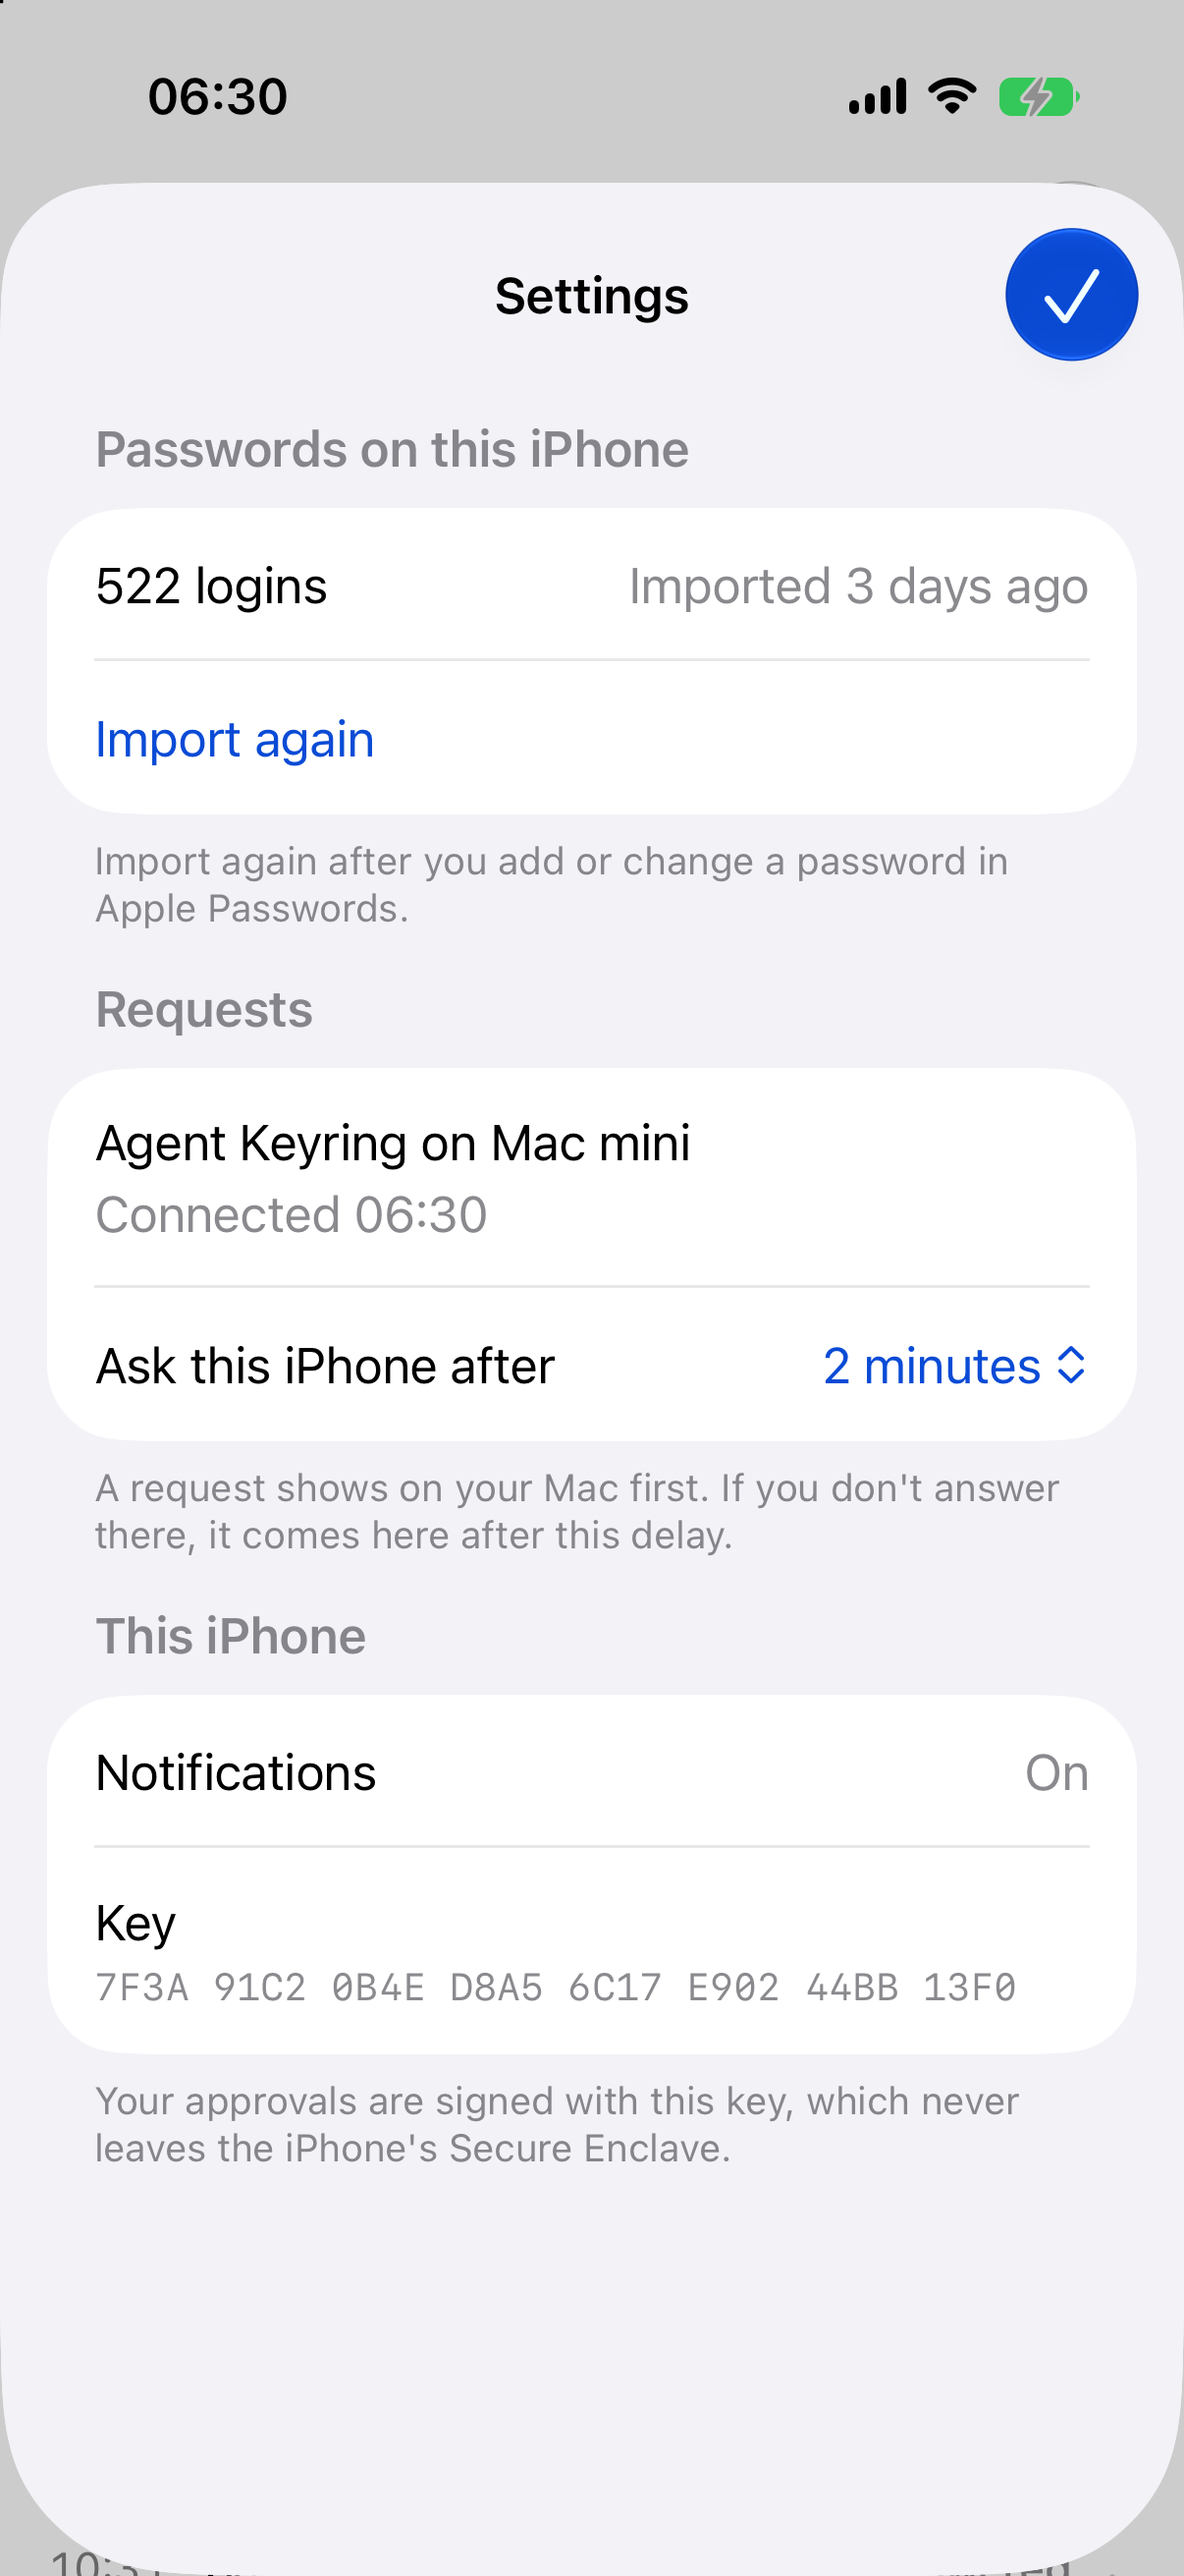
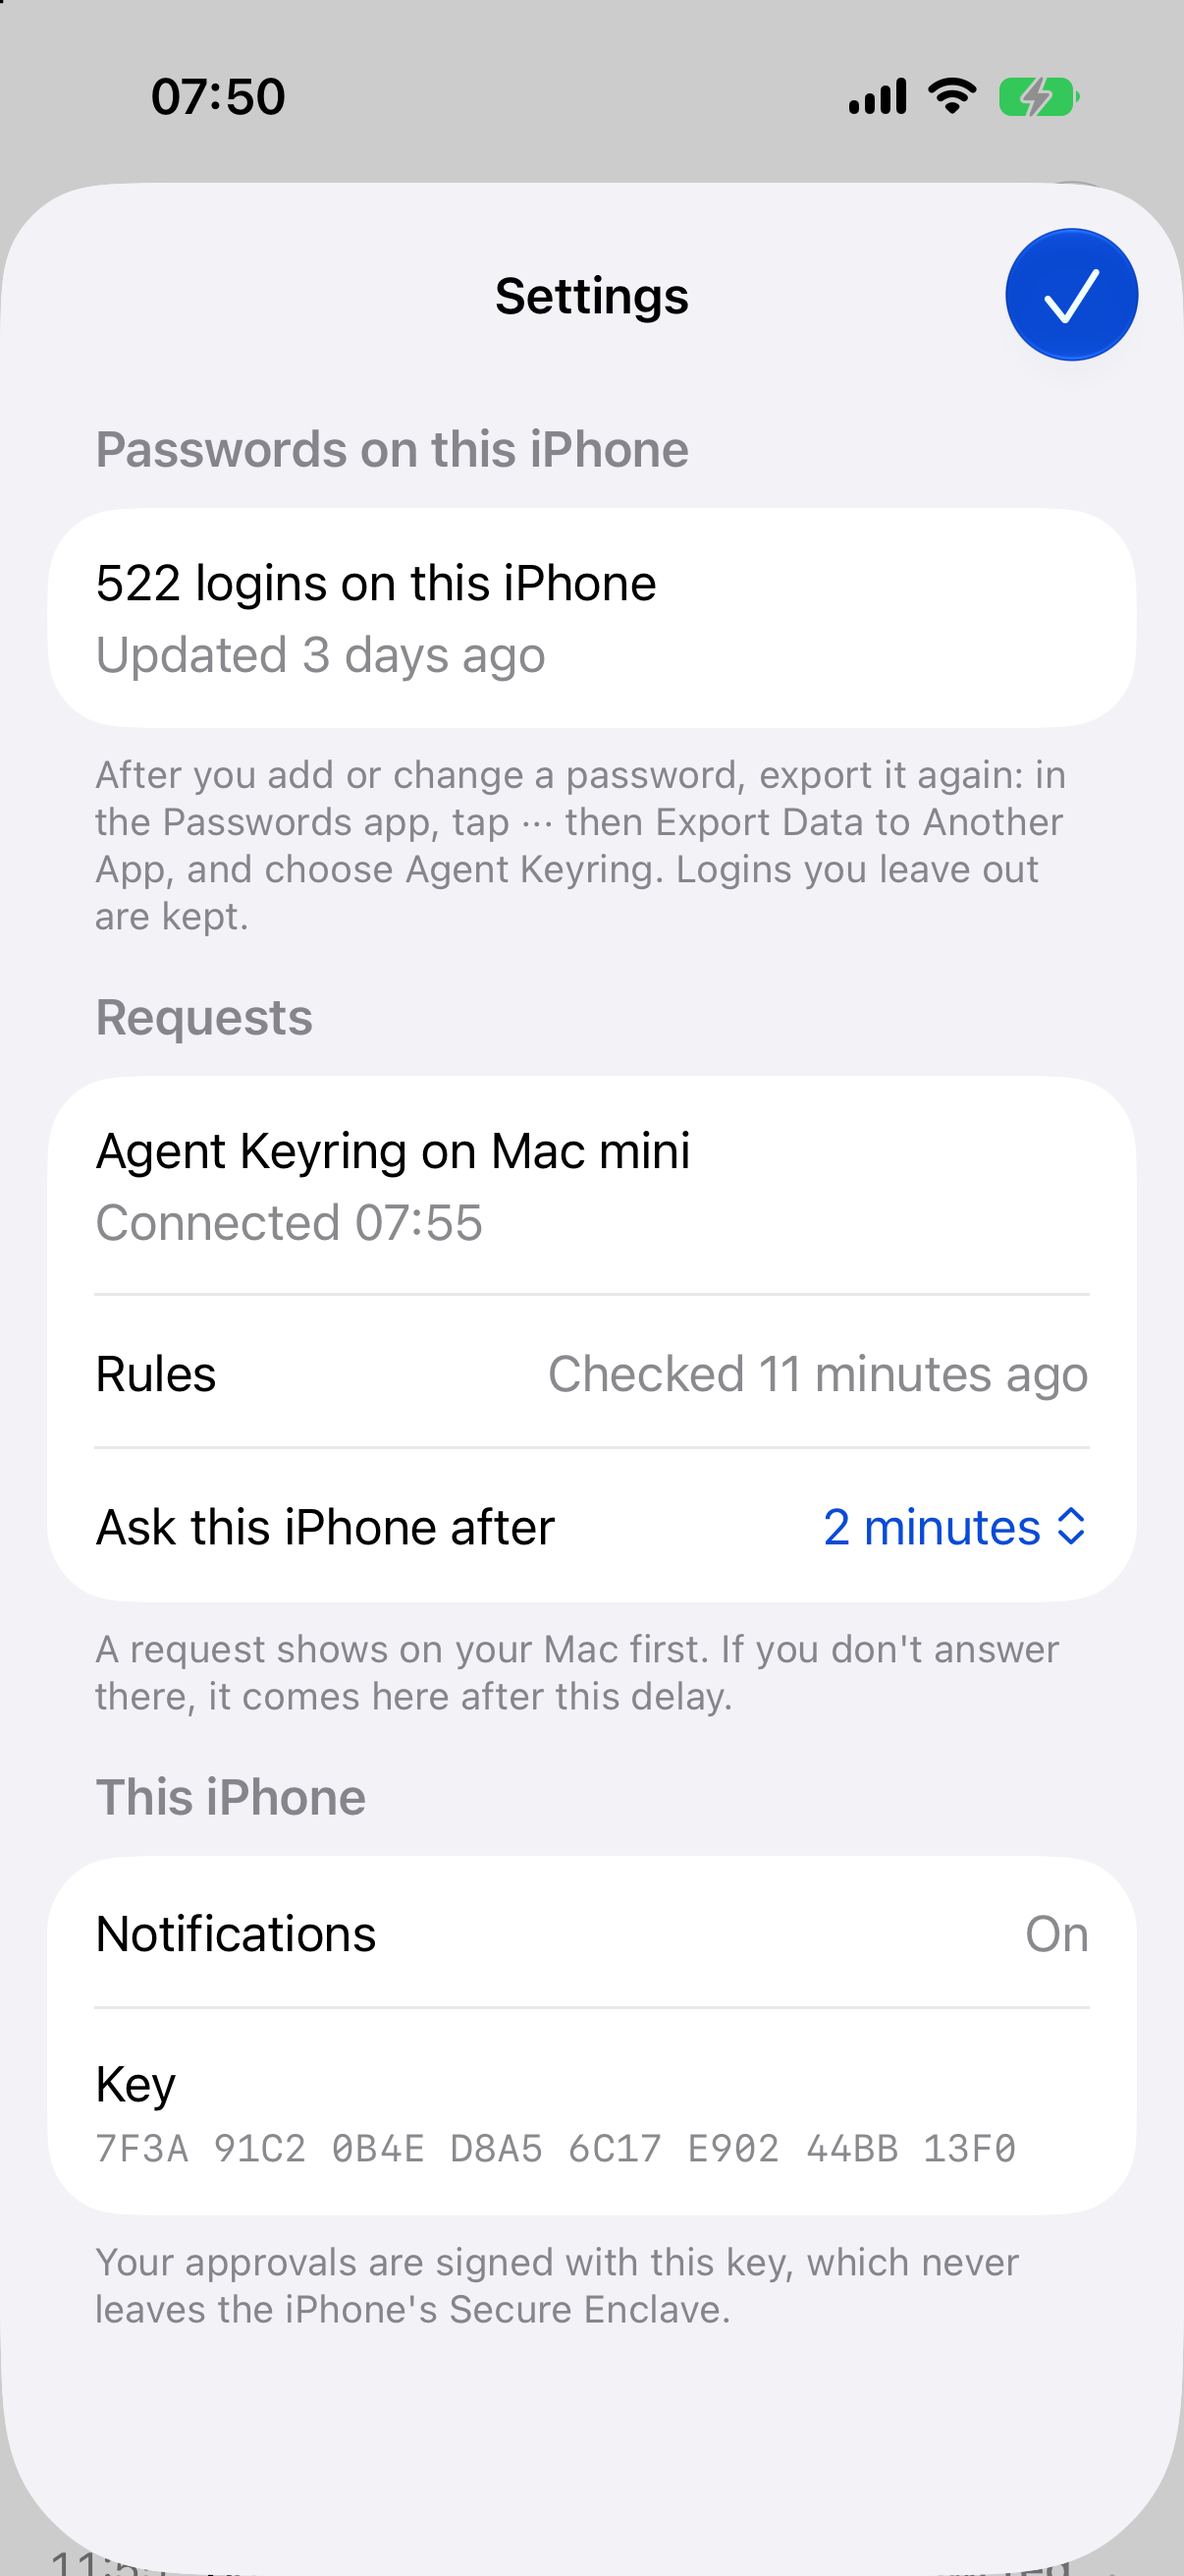
Pair the iPhone with the relay from a pairing screen
Home shows "Not paired yet, so requests can't reach this iPhone" with
Pair until the phone is paired, and Settings has "Pair with your Mac".
The pairing screen takes the relay address, then shows the code to
compare with the Mac's in the same two rows of four groups, waits while
Josh approves on the Mac with Touch ID, and finishes by itself; there is
no confirm button on the phone. "Doesn't match" cancels. Settings also
shows when the phone last verified the rules. Built on
PhoneRelayEndpoint, PhonePairingState, beginPairing and cancelPairing.

diff --git a/AgentKeyringPackage/Sources/AgentKeyringApprovalUI/Phone/PhonePairingView.swift b/AgentKeyringPackage/Sources/AgentKeyringApprovalUI/Phone/PhonePairingView.swift
@@ -1,0 +1,122 @@
+// Written by AI on 2026.10.31 by model Claude Opus 5.5.
+//
+// Pairing this iPhone with the relay (RFC 0006). Josh enters the relay's
+// address; the phone shows a code to compare with the Mac's, in the same
+// two rows of four groups; he approves on the Mac with Touch ID and the
+// phone finishes by itself. There is no confirm button here: the Mac's
+// signed approval is the confirmation, and the phone checks it.
+
+#if os(iOS)
+import SwiftUI
+
+struct PhonePairingView: View {
+    let model: PhoneKeyringModel
+    @Environment(\.dismiss) private var dismiss
+    @State private var address = ""
+    @FocusState private var addressFocused: Bool
+
+    var body: some View {
+        ScrollView {
+            VStack(alignment: .leading, spacing: 22) {
+                switch model.pairing {
+                case .notPaired:
+                    addressForm(failure: nil)
+                case let .failed(message):
+                    addressForm(failure: message)
+                case .connecting:
+                    HStack(spacing: 12) {
+                        ProgressView()
+                        Text(SetupCopy.pairingConnecting)
+                    }
+                    .font(.body)
+                    cancelButton
+                case let .comparing(fingerprint, relayAddress):
+                    comparing(fingerprint: fingerprint, relayAddress: relayAddress)
+                case .paired:
+                    HStack(alignment: .firstTextBaseline, spacing: 10) {
+                        Image(systemName: "checkmark.circle.fill")
+                            .foregroundStyle(KeyringColour.approveText)
+                        Text(SetupCopy.pairingPaired)
+                            .font(.body.weight(.semibold))
+                    }
+                    Button("Done") { dismiss() }
+                        .buttonStyle(.quiet())
+                }
+            }
+            .padding(.horizontal, KeyringMetric.margin)
+            .padding(.top, 8)
+        }
+        .navigationTitle(SetupCopy.pairTitle)
+        .navigationBarTitleDisplayMode(.inline)
+        .sensoryFeedback(.success, trigger: model.pairing == .paired)
+    }
+
+    @ViewBuilder private func addressForm(failure: String?) -> some View {
+        Text(SetupCopy.pairIntro)
+            .font(.body)
+            .foregroundStyle(.secondary)
+        if let failure {
+            Label(failure, systemImage: "exclamationmark.circle.fill")
+                .font(.subheadline)
+                .foregroundStyle(KeyringColour.denyText)
+        }
+        VStack(alignment: .leading, spacing: 6) {
+            Text(SetupCopy.relayAddress)
+                .font(.subheadline.weight(.semibold))
+                .foregroundStyle(.secondary)
+            TextField("mac-mini:17443", text: $address)
+                .textInputAutocapitalization(.never)
+                .autocorrectionDisabled()
+                .keyboardType(.URL)
+                .focused($addressFocused)
+                .font(.body.monospaced())
+                .padding(12)
+                .background(Color.primary.opacity(0.06), in: .rect(cornerRadius: 12, style: .continuous))
+                .onSubmit(pair)
+        }
+        Button(failure == nil ? SetupCopy.pairButton : SetupCopy.tryAgain, action: pair)
+            .buttonStyle(DecisionButtonStyle(colour: KeyringColour.signal))
+            .disabled(endpoint == nil)
+    }
+
+    @ViewBuilder private func comparing(fingerprint: String, relayAddress: String) -> some View {
+        Text(SetupCopy.pairingCompareHere)
+            .font(.headline)
+        FingerprintGrid(fingerprint, size: .title3)
+            .frame(maxWidth: .infinity)
+            .padding(.vertical, 8)
+        Text(SetupCopy.allGroupsMustMatch)
+            .font(.subheadline)
+            .foregroundStyle(.secondary)
+        Hairline()
+        HStack(alignment: .firstTextBaseline, spacing: 12) {
+            ProgressView()
+            Text(SetupCopy.pairingConfirmOnMac)
+                .font(.body)
+        }
+        Text("Relay: \(relayAddress)")
+            .font(.footnote.monospaced())
+            .foregroundStyle(.secondary)
+        Button(SetupCopy.doesNotMatch) { model.cancelPairing() }
+            .buttonStyle(.quiet(text: KeyringColour.denyText))
+    }
+
+    private var cancelButton: some View {
+        Button("Cancel") { model.cancelPairing() }
+            .buttonStyle(.quiet())
+    }
+
+    /// "mac-mini:17443" into host and port.
+    private var endpoint: PhoneRelayEndpoint? {
+        let parts = address.trimmingCharacters(in: .whitespaces).split(separator: ":")
+        guard parts.count == 2, !parts[0].isEmpty, let port = UInt16(parts[1]) else { return nil }
+        return PhoneRelayEndpoint(host: String(parts[0]), port: port)
+    }
+
+    private func pair() {
+        guard let endpoint else { return }
+        addressFocused = false
+        Task { await model.beginPairing(endpoint: endpoint) }
+    }
+}
+#endif

diff --git a/AgentKeyringPackage/Sources/AgentKeyringApprovalUI/Phone/PhoneHomeView.swift b/AgentKeyringPackage/Sources/AgentKeyringApprovalUI/Phone/PhoneHomeView.swift
@@ -9,15 +9,18 @@ import SwiftUI
 public struct PhoneRootView: View {
     @Bindable var model: PhoneKeyringModel
     @State private var path: [String]
+    @State private var isPairing: Bool
 
-    public init(model: PhoneKeyringModel, openRequestID: String? = nil) {
+    public init(model: PhoneKeyringModel, openRequestID: String? = nil,
+        openPairing: Bool = PhoneDesignScenario.fromLaunchArguments()?.opensPairing ?? false) {
         self.model = model
         _path = State(initialValue: openRequestID.map { [$0] } ?? [])
+        _isPairing = State(initialValue: openPairing)
     }
 
     public var body: some View {
         NavigationStack(path: $path) {
-            PhoneHomeView(model: model)
+            PhoneHomeView(model: model) { isPairing = true }
                 .navigationDestination(for: String.self) { id in
                     if let request = model.request(id: id) {
                         PhoneRequestDetailView(model: model, request: request)
@@ -32,6 +35,17 @@ public struct PhoneRootView: View {
         .sheet(isPresented: $model.isShowingSettings) {
             PhoneSettingsView(model: model)
         }
+        .sheet(isPresented: $isPairing) {
+            NavigationStack {
+                PhonePairingView(model: model)
+                    .toolbar {
+                        ToolbarItem(placement: .cancellationAction) {
+                            Button("Close", systemImage: "xmark") { isPairing = false }
+                        }
+                    }
+            }
+            .tint(KeyringColour.signal)
+        }
     }
 
     private var presentedRequest: Binding<AccessRequest?> {
@@ -44,6 +58,7 @@ public struct PhoneRootView: View {
 
 struct PhoneHomeView: View {
     let model: PhoneKeyringModel
+    let pair: () -> Void
 
     var body: some View {
         Group {
@@ -63,7 +78,9 @@ struct PhoneHomeView: View {
 
     private var requestList: some View {
         List {
-            if case let .unreachable(service, since) = model.connection {
+            if model.pairing != .paired {
+                Section { NotPairedNotice(pair: pair) }
+            } else if case let .unreachable(service, since) = model.connection {
                 Section { UnreachableNotice(service: service, since: since) }
             }
 
@@ -217,6 +234,25 @@ private struct NothingWaiting: View {
                 .foregroundStyle(.secondary)
         }
         .padding(.vertical, 12)
+        .listRowSeparator(.hidden)
+    }
+}
+
+private struct NotPairedNotice: View {
+    let pair: () -> Void
+
+    var body: some View {
+        HStack(alignment: .center, spacing: 12) {
+            Image(systemName: "link")
+                .foregroundStyle(KeyringColour.signal)
+            Text(SetupCopy.notPairedNotice)
+                .font(.subheadline)
+            Spacer()
+            Button(SetupCopy.pairButton, action: pair)
+                .buttonStyle(.borderedProminent)
+                .tint(KeyringColour.signal)
+        }
+        .padding(.vertical, 6)
         .listRowSeparator(.hidden)
     }
 }

diff --git a/AgentKeyringPackage/Sources/AgentKeyringApprovalUI/Phone/PhoneDesignScenario.swift b/AgentKeyringPackage/Sources/AgentKeyringApprovalUI/Phone/PhoneDesignScenario.swift
@@ -23,6 +23,13 @@ public enum PhoneDesignScenario: String, CaseIterable, Sendable {
     case importNeeded
     case importing
     case settings
+    case settingsNotPaired
+    case homeNotPaired
+    case pairing
+    case pairingConnecting
+    case pairingComparing
+    case pairingPaired
+    case pairingFailed
 
     public static func fromLaunchArguments(_ arguments: [String] = ProcessInfo.processInfo.arguments) -> Self? {
         guard let index = arguments.firstIndex(of: "-designScenario"), arguments.indices.contains(index + 1)
@@ -42,6 +49,7 @@ public enum PhoneDesignScenario: String, CaseIterable, Sendable {
         var replying = false
         var reply = ""
         var showingSettings = false
+        var pairing = PhonePairingState.paired
 
         switch self {
         case .home, .inUseDetail, .historyDetail:
@@ -86,6 +94,23 @@ public enum PhoneDesignScenario: String, CaseIterable, Sendable {
             passwords = .importing(received: 318)
         case .settings:
             showingSettings = true
+        case .settingsNotPaired:
+            showingSettings = true
+            pairing = .notPaired
+        case .homeNotPaired:
+            requests = history.filter { !$0.state.isInUse }
+            pairing = .notPaired
+        case .pairing:
+            pairing = .notPaired
+        case .pairingConnecting:
+            pairing = .connecting
+        case .pairingComparing:
+            pairing = .comparing(fingerprint: DesignExamples.iPhoneEnrolment(now: now).code,
+                relayAddress: "mac-mini:17443")
+        case .pairingPaired:
+            pairing = .paired
+        case .pairingFailed:
+            pairing = .failed("Couldn't reach mac-mini:17443. Check that Tailscale is on.")
         }
 
         let snapshot = PhoneKeyringSnapshot(
@@ -93,7 +118,9 @@ public enum PhoneDesignScenario: String, CaseIterable, Sendable {
             passwords: passwords,
             connection: connection,
             settings: PhoneSettings(askPhoneAfter: .seconds(120), notificationsAllowed: true,
-                keyFingerprint: "7F3A 91C2 0B4E D8A5 6C17 E902 44BB 13F0")
+                keyFingerprint: "7F3A 91C2 0B4E D8A5 6C17 E902 44BB 13F0",
+                rulesUpdatedAt: now.addingTimeInterval(-11 * 60)),
+            pairing: pairing
         )
         let model = PhoneKeyringModel(backend: DesignPhoneBackend(snapshot: snapshot), initial: snapshot)
         model.presentedRequestID = presented
@@ -101,6 +128,14 @@ public enum PhoneDesignScenario: String, CaseIterable, Sendable {
         model.replyDraft = reply
         model.isShowingSettings = showingSettings
         return model
+    }
+
+    /// The pairing screens open as a sheet over the home list.
+    public var opensPairing: Bool {
+        switch self {
+        case .pairing, .pairingConnecting, .pairingComparing, .pairingPaired, .pairingFailed: true
+        default: false
+        }
     }
 
     /// The screen this scenario opens, beyond the home list.

diff --git a/AgentKeyringPackage/Sources/AgentKeyringApprovalUI/Phone/PhoneSettingsView.swift b/AgentKeyringPackage/Sources/AgentKeyringApprovalUI/Phone/PhoneSettingsView.swift
@@ -25,7 +25,14 @@ struct PhoneSettingsView: View {
                 }
 
                 Section {
-                    connectionRow
+                    if model.pairing == .paired {
+                        connectionRow
+                    } else {
+                        NavigationLink(SetupCopy.pairTitle) { PhonePairingView(model: model) }
+                    }
+                    if let rulesUpdatedAt = model.settings.rulesUpdatedAt {
+                        LabeledContent("Rules", value: "Checked \(rulesUpdatedAt.formatted(.relative(presentation: .named)))")
+                    }
                     Picker("Ask this iPhone after", selection: askAfter) {
                         ForEach(Self.delays, id: \.self) { delay in
                             Text(delayText(delay)).tag(delay)
